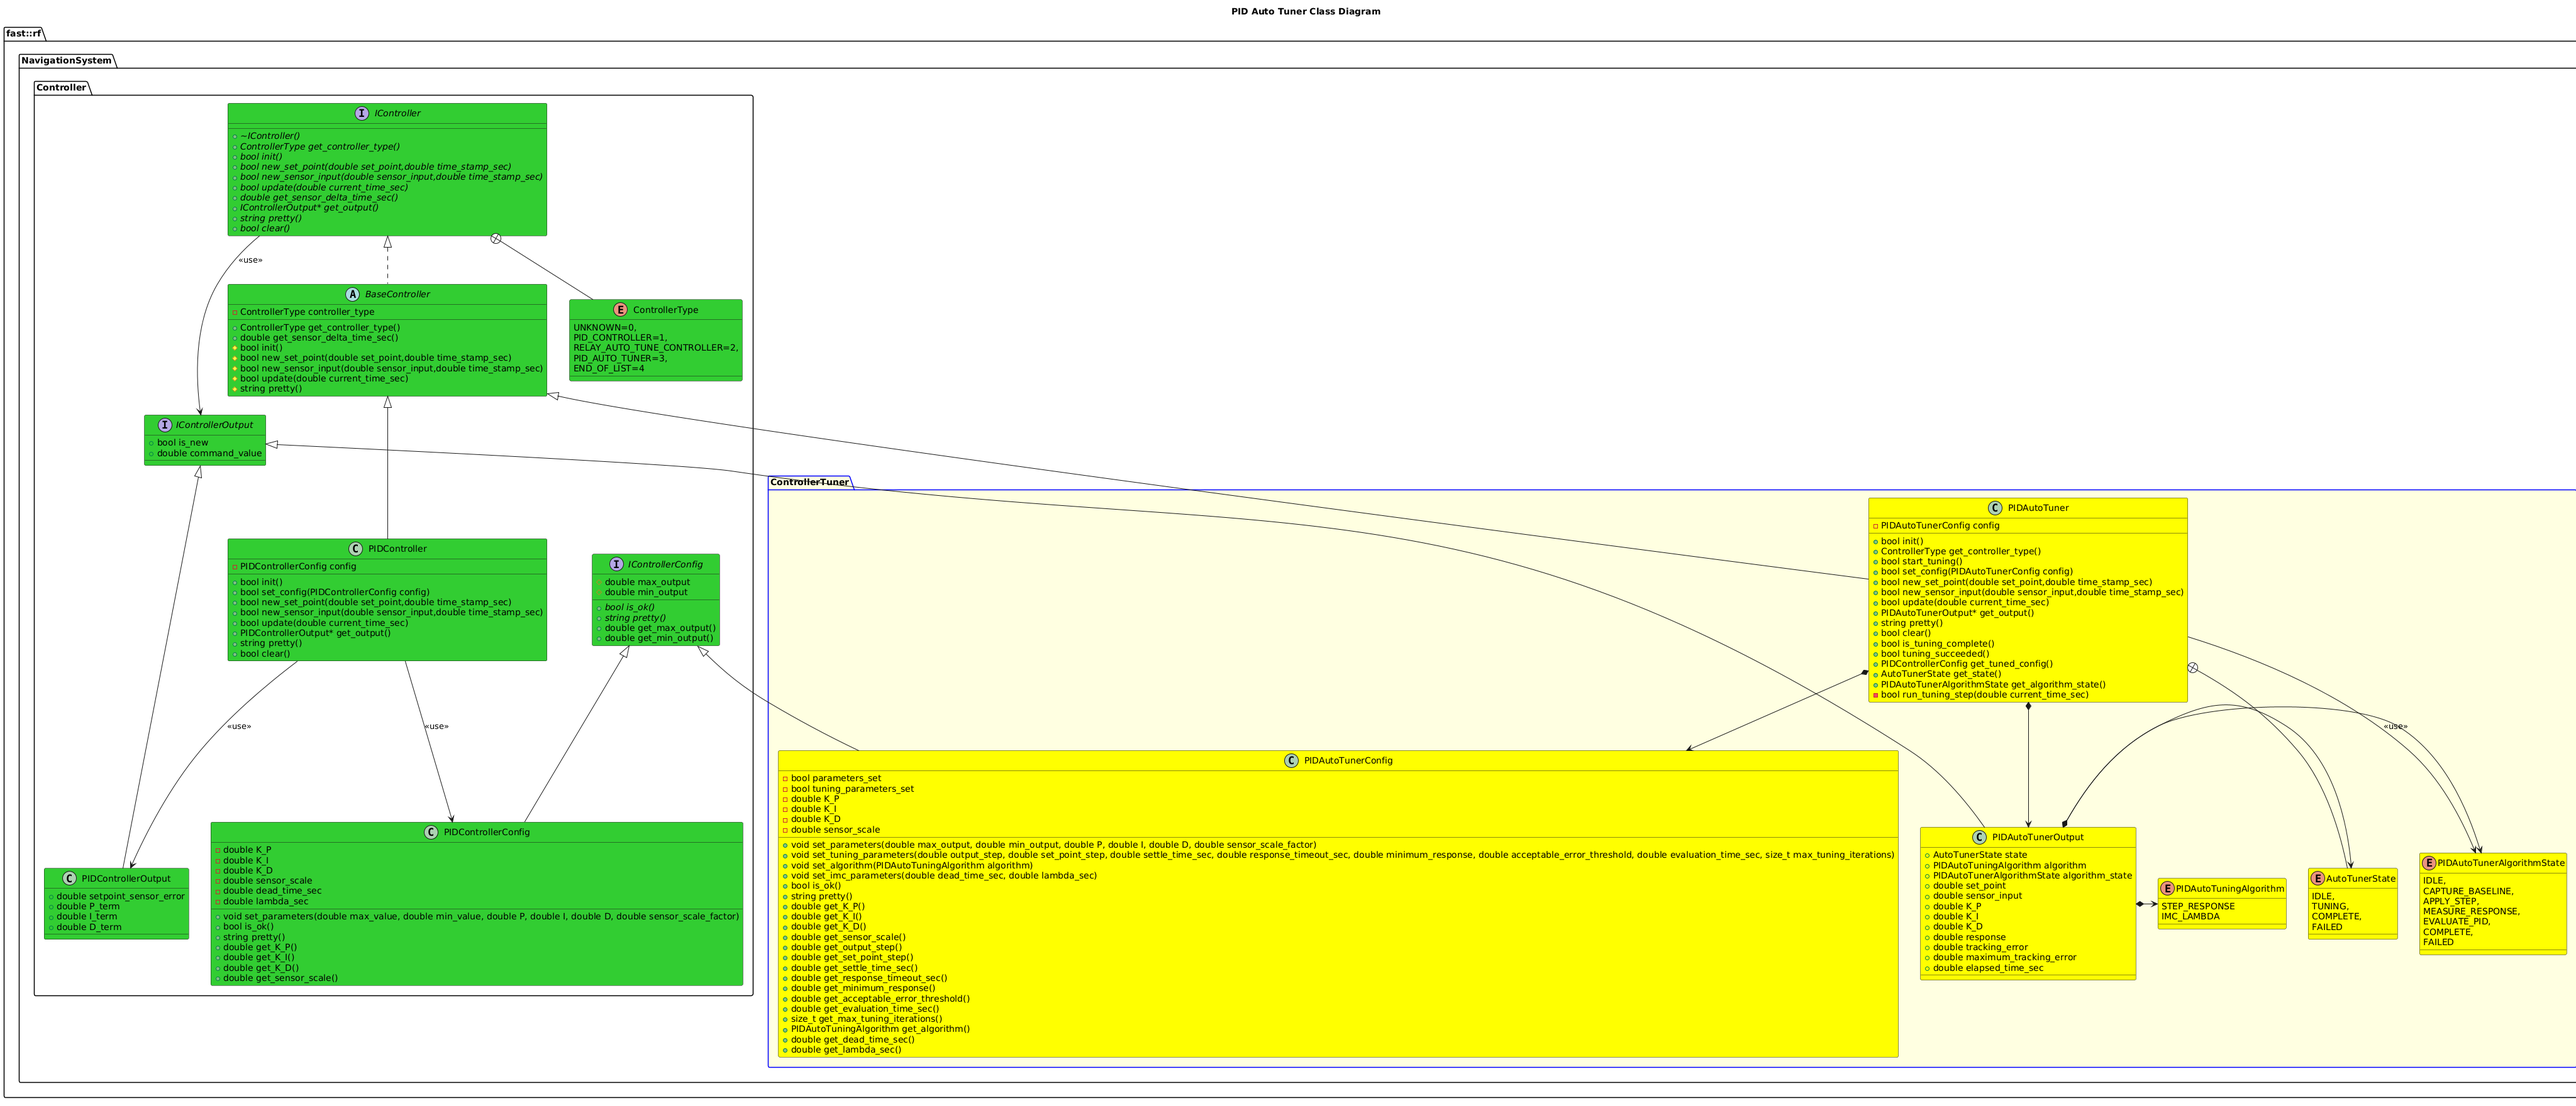
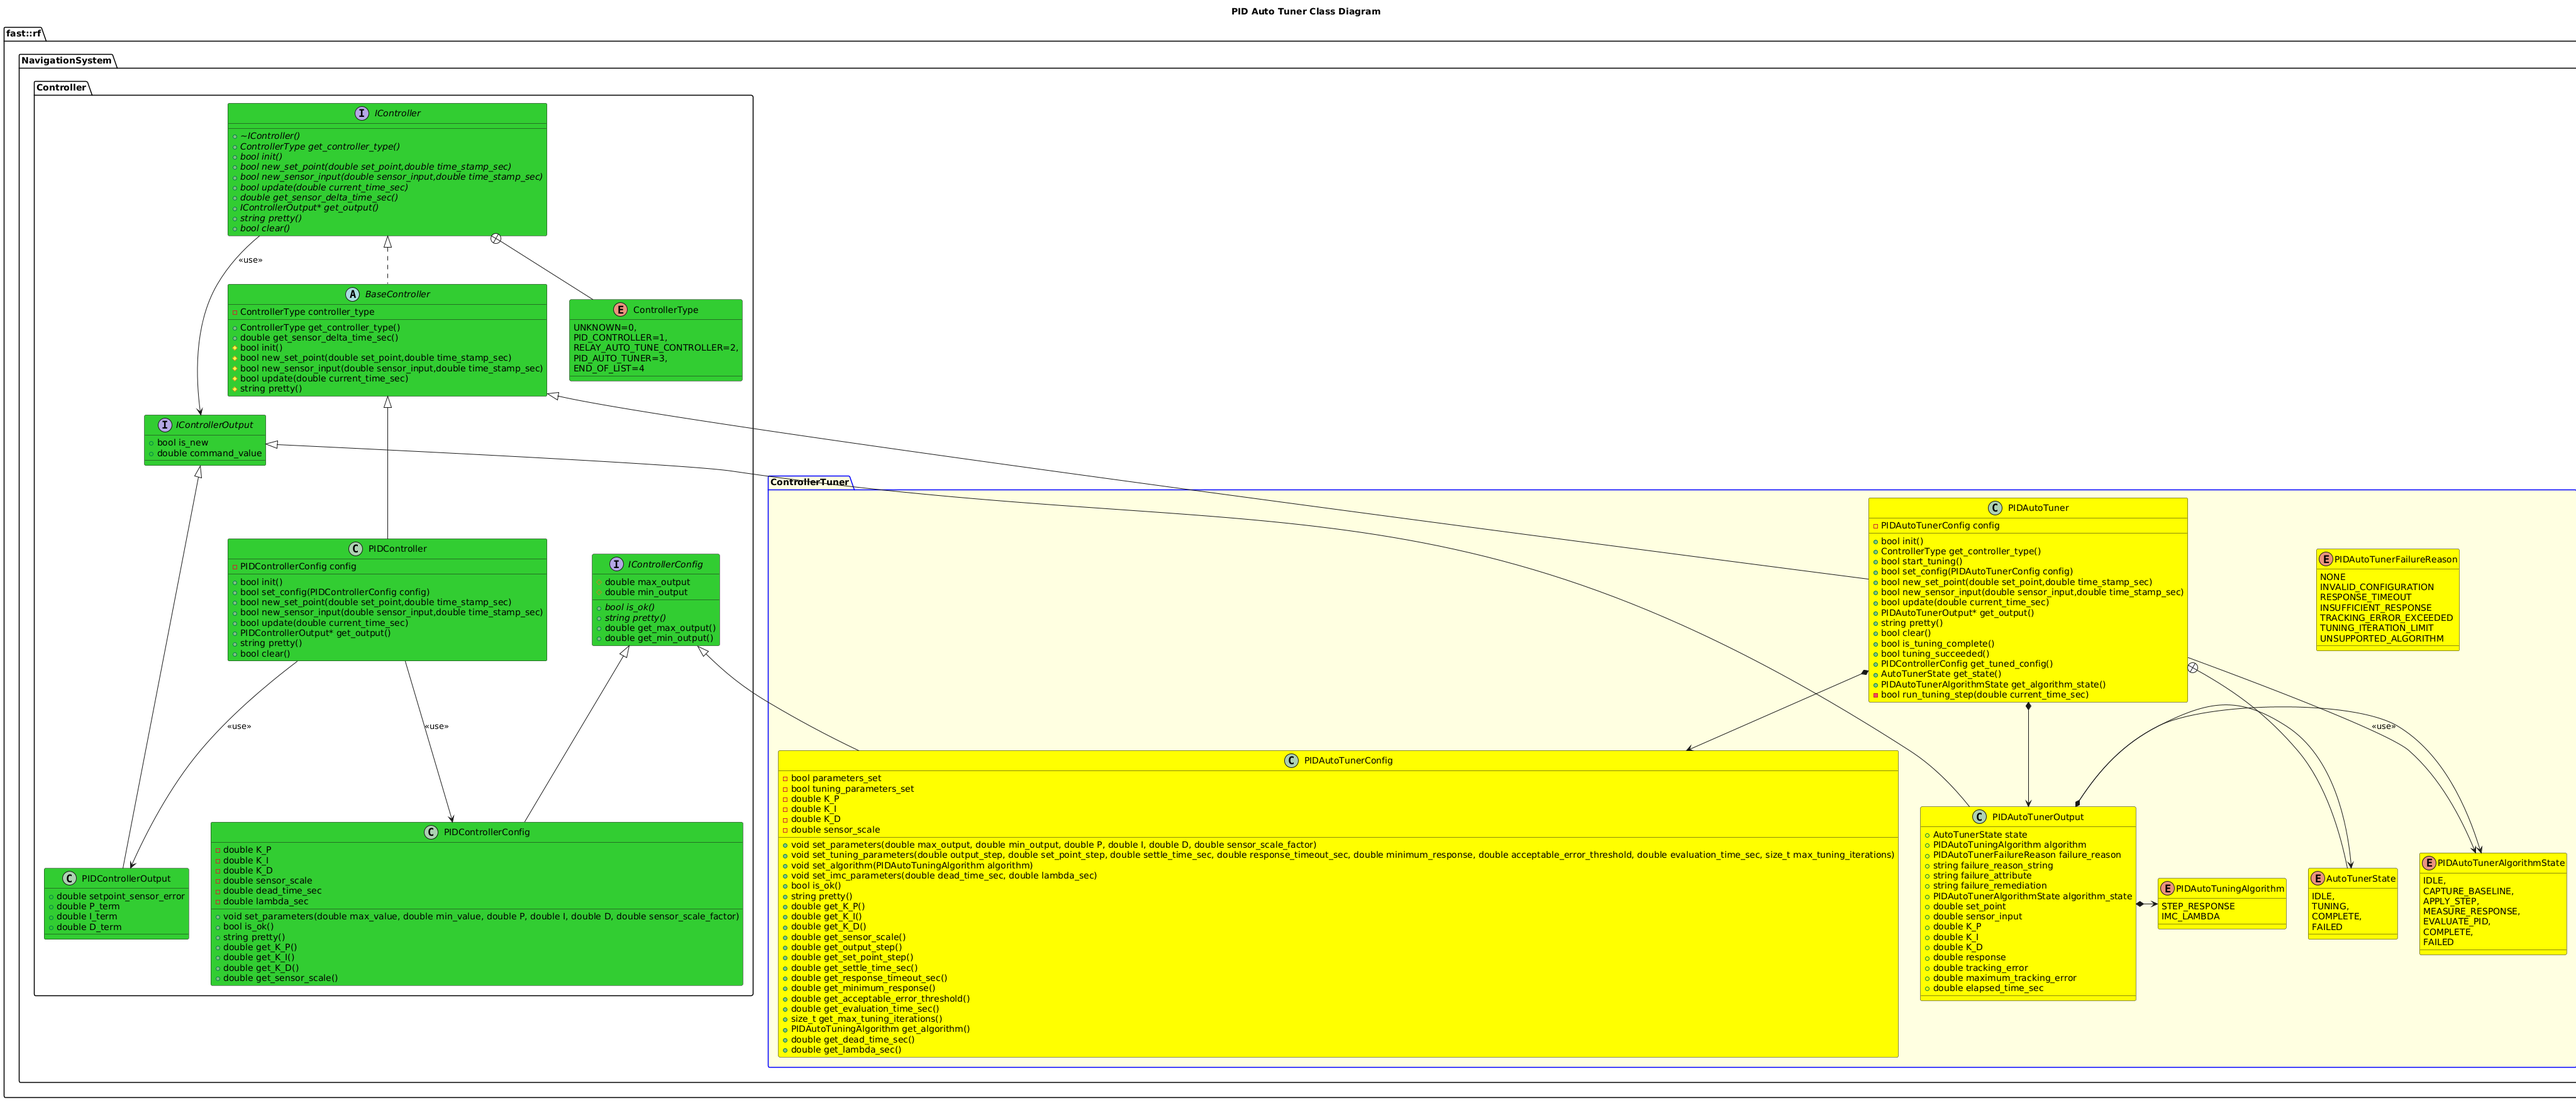
Updates

Changed region(s): [[0.75, 0.7188, 0.8438, 0.9062], [0.875, 0.4688, 0.9688, 0.5938]]

diff --git a/Systems/Navigation/src/Controller/ControllerTuner/PIDAutoTuner/PIDAutoTuner.cpp b/Systems/Navigation/src/Controller/ControllerTuner/PIDAutoTuner/PIDAutoTuner.cpp
@@ -2,6 +2,28 @@
 #include <cmath>
 
 namespace fast::rf::NavigationSystem::ControllerTuner {
+    namespace {
+        std::string failure_reason_to_string(PIDAutoTunerFailureReason reason) {
+            switch (reason) {
+                case PIDAutoTunerFailureReason::INVALID_CONFIGURATION:
+                    return "INVALID_CONFIGURATION";
+                case PIDAutoTunerFailureReason::RESPONSE_TIMEOUT:
+                    return "RESPONSE_TIMEOUT";
+                case PIDAutoTunerFailureReason::INSUFFICIENT_RESPONSE:
+                    return "INSUFFICIENT_RESPONSE";
+                case PIDAutoTunerFailureReason::TRACKING_ERROR_EXCEEDED:
+                    return "TRACKING_ERROR_EXCEEDED";
+                case PIDAutoTunerFailureReason::TUNING_ITERATION_LIMIT:
+                    return "TUNING_ITERATION_LIMIT";
+                case PIDAutoTunerFailureReason::UNSUPPORTED_ALGORITHM:
+                    return "UNSUPPORTED_ALGORITHM";
+                case PIDAutoTunerFailureReason::NONE:
+                default:
+                    return "NONE";
+            }
+        }
+    }  // namespace
+
     bool PIDAutoTunerConfig::is_ok() {
         if (!parameters_set_ || !tuning_parameters_set_ || max_output_ <= min_output_ || output_step_ == 0.0 ||
             set_point_step_ == 0.0 || settle_time_sec_ <= 0.0 || response_timeout_sec_ < settle_time_sec_ ||
@@ -92,7 +114,9 @@ namespace fast::rf::NavigationSystem::ControllerTuner {
                " Algorithm State: " + std::to_string(static_cast<int>(algorithm_state_)) +
                " Set Point: " + std::to_string(output_->set_point) +
                " Sensor: " + std::to_string(output_->sensor_input) + " K_P: " + std::to_string(output_->K_P) +
-               " K_I: " + std::to_string(output_->K_I) + " K_D: " + std::to_string(output_->K_D) + "\n";
+               " K_I: " + std::to_string(output_->K_I) + " K_D: " + std::to_string(output_->K_D) +
+               "\nFailure Reason: " + output_->failure_reason_string + " Attribute: " + output_->failure_attribute +
+               " Remediation: " + output_->failure_remediation + "\n";
     }
 
     bool PIDAutoTuner::clear() {
@@ -110,6 +134,10 @@ namespace fast::rf::NavigationSystem::ControllerTuner {
         evaluation_started_ = false;
         if (output_ != nullptr) {
             output_->state = state_;
+            output_->failure_reason = PIDAutoTunerFailureReason::NONE;
+            output_->failure_reason_string = "NONE";
+            output_->failure_attribute.clear();
+            output_->failure_remediation.clear();
             output_->algorithm_state = algorithm_state_;
             output_->is_new = false;
             output_->command_value = 0.0;
@@ -128,7 +156,8 @@ namespace fast::rf::NavigationSystem::ControllerTuner {
 
     bool PIDAutoTuner::start_tuning() {
         if (output_ == nullptr || !config_.is_ok()) {
-            fail_tuning();
+            fail_tuning(PIDAutoTunerFailureReason::INVALID_CONFIGURATION, "PIDAutoTunerConfig",
+                        "Set both parameter groups with valid limits and tuning values before start_tuning().");
             return false;
         }
         state_ = AutoTunerState::TUNING;
@@ -143,6 +172,10 @@ namespace fast::rf::NavigationSystem::ControllerTuner {
         have_sensor_input_ = false;
         evaluation_started_ = false;
         output_->state = state_;
+        output_->failure_reason = PIDAutoTunerFailureReason::NONE;
+        output_->failure_reason_string = "NONE";
+        output_->failure_attribute.clear();
+        output_->failure_remediation.clear();
         output_->algorithm = config_.get_algorithm();
         output_->algorithm_state = algorithm_state_;
         output_->is_new = true;
@@ -156,7 +189,8 @@ namespace fast::rf::NavigationSystem::ControllerTuner {
             case PIDAutoTuningAlgorithm::IMC_LAMBDA:
                 return run_step_response_tuning_step(current_time_sec);
             default:
-                fail_tuning();
+                fail_tuning(PIDAutoTunerFailureReason::UNSUPPORTED_ALGORITHM, "algorithm",
+                            "Select an implemented PIDAutoTuningAlgorithm before starting the tuner.");
                 return false;
         }
     }
@@ -217,7 +251,9 @@ namespace fast::rf::NavigationSystem::ControllerTuner {
                 } else {
                     ++tuning_iteration_;
                     if (tuning_iteration_ >= config_.get_max_tuning_iterations()) {
-                        fail_tuning();
+                        fail_tuning(
+                            PIDAutoTunerFailureReason::TUNING_ITERATION_LIMIT, "maximum_tracking_error",
+                            "Increase max_tuning_iterations or revise the output step and PID search strategy.");
                         return false;
                     }
                     output_->K_P *= 1.5;
@@ -273,17 +309,24 @@ namespace fast::rf::NavigationSystem::ControllerTuner {
             }
         }
         if (elapsed_time >= config_.get_response_timeout_sec()) {
-            fail_tuning();
+            fail_tuning(
+                PIDAutoTunerFailureReason::RESPONSE_TIMEOUT, "elapsed_time_sec",
+                "Verify sensor timestamps and actuator feedback, then increase response_timeout_sec if needed.");
             return false;
         }
         return true;
     }
 
-    void PIDAutoTuner::fail_tuning() {
+    void PIDAutoTuner::fail_tuning(PIDAutoTunerFailureReason reason, const std::string& attribute,
+                                   const std::string& remediation) {
         state_ = AutoTunerState::FAILED;
         algorithm_state_ = PIDAutoTunerAlgorithmState::FAILED;
         if (output_ != nullptr) {
             output_->state = state_;
+            output_->failure_reason = reason;
+            output_->failure_reason_string = failure_reason_to_string(reason);
+            output_->failure_attribute = attribute;
+            output_->failure_remediation = remediation;
             output_->algorithm_state = algorithm_state_;
             output_->command_value = 0.0;
             output_->is_new = true;

diff --git a/Systems/Navigation/src/Controller/ControllerTuner/PIDAutoTuner/test/test_PIDAutoTuner.cpp b/Systems/Navigation/src/Controller/ControllerTuner/PIDAutoTuner/test/test_PIDAutoTuner.cpp
@@ -56,6 +56,18 @@ TEST(PIDAutoTuner, RequiresBothParameterGroups) {
     ASSERT_EQ(tuner.get_state(), AutoTunerState::FAILED);
 }
 
+TEST(PIDAutoTuner, ReportsInvalidConfigurationFailureDetails) {
+    PIDAutoTuner tuner;
+    ASSERT_TRUE(tuner.init());
+    ASSERT_FALSE(tuner.start_tuning());
+
+    PIDAutoTunerOutput* output = tuner.get_output();
+    ASSERT_EQ(output->failure_reason, PIDAutoTunerFailureReason::INVALID_CONFIGURATION);
+    ASSERT_EQ(output->failure_reason_string, "INVALID_CONFIGURATION");
+    ASSERT_EQ(output->failure_attribute, "PIDAutoTunerConfig");
+    ASSERT_FALSE(output->failure_remediation.empty());
+}
+
 TEST(PIDAutoTuner, SelectsSupportedStepResponseAlgorithm) {
     PIDAutoTunerConfig config;
     config.set_parameters(10.0, -10.0, 0.0, 0.0, 0.0, 1.0);
@@ -103,6 +115,11 @@ TEST(PIDAutoTuner, FailsWhenResponseTimesOut) {
     ASSERT_FALSE(tuner.update(2.0));
     ASSERT_EQ(tuner.get_state(), AutoTunerState::FAILED);
     ASSERT_EQ(tuner.get_algorithm_state(), PIDAutoTunerAlgorithmState::FAILED);
+    PIDAutoTunerOutput* output = tuner.get_output();
+    ASSERT_EQ(output->failure_reason, PIDAutoTunerFailureReason::RESPONSE_TIMEOUT);
+    ASSERT_EQ(output->failure_reason_string, "RESPONSE_TIMEOUT");
+    ASSERT_EQ(output->failure_attribute, "elapsed_time_sec");
+    ASSERT_FALSE(output->failure_remediation.empty());
 }
 
 TEST(PIDAutoTuner, IteratesGainsWhenTrackingErrorIsTooLarge) {
@@ -137,4 +154,8 @@ TEST(PIDAutoTuner, IteratesGainsWhenTrackingErrorIsTooLarge) {
     ASSERT_TRUE(tuner.new_sensor_input(10.0, 5.0));
     ASSERT_FALSE(tuner.update(5.0));
     ASSERT_EQ(tuner.get_state(), AutoTunerState::FAILED);
+    output = tuner.get_output();
+    ASSERT_EQ(output->failure_reason, PIDAutoTunerFailureReason::TUNING_ITERATION_LIMIT);
+    ASSERT_EQ(output->failure_attribute, "maximum_tracking_error");
+    ASSERT_FALSE(output->failure_remediation.empty());
 }

diff --git a/Systems/Navigation/include/ControllerTuner/PIDAutoTuner/PIDAutoTuner.hpp b/Systems/Navigation/include/ControllerTuner/PIDAutoTuner/PIDAutoTuner.hpp
@@ -6,6 +6,15 @@
 
 namespace fast::rf::NavigationSystem::ControllerTuner {
     enum class AutoTunerState { IDLE, TUNING, COMPLETE, FAILED };
+    enum class PIDAutoTunerFailureReason {
+        NONE,
+        INVALID_CONFIGURATION,
+        RESPONSE_TIMEOUT,
+        INSUFFICIENT_RESPONSE,
+        TRACKING_ERROR_EXCEEDED,
+        TUNING_ITERATION_LIMIT,
+        UNSUPPORTED_ALGORITHM
+    };
     enum class PIDAutoTuningAlgorithm {
         STEP_RESPONSE,
         IMC_LAMBDA,
@@ -102,6 +111,10 @@ namespace fast::rf::NavigationSystem::ControllerTuner {
        public:
         ~PIDAutoTunerOutput() override {}
         AutoTunerState state{AutoTunerState::IDLE};
+        PIDAutoTunerFailureReason failure_reason{PIDAutoTunerFailureReason::NONE};
+        std::string failure_reason_string;
+        std::string failure_attribute;
+        std::string failure_remediation;
         PIDAutoTuningAlgorithm algorithm{PIDAutoTuningAlgorithm::STEP_RESPONSE};
         PIDAutoTunerAlgorithmState algorithm_state{PIDAutoTunerAlgorithmState::IDLE};
         double set_point{0.0};
@@ -137,7 +150,8 @@ namespace fast::rf::NavigationSystem::ControllerTuner {
        private:
         bool run_tuning_step(double current_time_sec);
         bool run_step_response_tuning_step(double current_time_sec);
-        void fail_tuning();
+        void fail_tuning(PIDAutoTunerFailureReason reason, const std::string& attribute,
+                         const std::string& remediation);
         void synchronize_output();
 
         PIDAutoTunerConfig config_;

diff --git a/Systems/Navigation/doc/PIDAutoTuner.md b/Systems/Navigation/doc/PIDAutoTuner.md
@@ -44,7 +44,7 @@ system before reporting successful tuning.
 
 The current implementation supports bounded step-response and IMC/Lambda
 tuning, selected by `PIDAutoTuningAlgorithm`. The selector is part of the
-public configuration API, but unsupported algorithms are rejected until their
+public configuration API. Unsupported algorithms are rejected until their
 implementations are added. IMC/Lambda additionally requires process dead time
 and the desired closed-loop time constant:
 
@@ -144,7 +144,7 @@ The Auto-Tuner should be capable of easy inspection of the state of the module.
 sensor value, and calculated gains.
 
 ## Requirement: Support multiple Tuning Algorithms
-*Met?* Not implemented yet.
+*Met?* Partially met.
 
 *Description*
 
@@ -152,8 +152,9 @@ The Auto-Tuner should be capable of potentially multiple different tuning algori
 
 *Evidence*
 
-The first implementation has one step-response algorithm. The configuration
-and algorithm-state boundaries are intended to support additional algorithms.
+The implementation currently supports bounded step-response and IMC/Lambda
+algorithms. The configuration selector and dispatch boundary allow additional
+algorithms to be added later.
 
 ## Requirement: Tuning Algorithm State Machine
 *Met?* Met for the first implementation.
@@ -166,9 +167,10 @@ If a tuning algorithm has a series of steps it must go thru, it should follow a 
 
 `PIDAutoTunerAlgorithmState` tracks baseline capture, step application,
 response measurement, candidate PID evaluation, completion, and failure while
-the main state is `TUNING`. When evaluation error exceeds the configured
-threshold, the tuner adjusts the candidate gains and retries until the
-iteration limit is reached.
+the main state is `TUNING`. Both supported algorithms use this same lifecycle;
+IMC/Lambda changes the gain calculation after the response is measured. When
+evaluation error exceeds the configured threshold, the tuner adjusts the
+candidate gains and retries until the iteration limit is reached.
 
 # Architecture
 ![](../../../Legend.png)
@@ -298,3 +300,19 @@ window. It reaches `COMPLETE` only when that value is less than or equal to
 `acceptable_error_threshold`. If the error is larger, the tuner adjusts the
 candidate gains and retries while the main state remains `TUNING`; after
 `max_tuning_iterations` unsuccessful evaluations it reaches `FAILED`.
+
+### Failure Diagnostics
+
+When tuning fails, `PIDAutoTunerOutput` contains a structured explanation:
+
+| Field                   | Description                                                            |
+| ----------------------- | ---------------------------------------------------------------------- |
+| `failure_reason`        | Machine-readable `PIDAutoTunerFailureReason` enum value.               |
+| `failure_reason_string` | Printable name of the enum value.                                      |
+| `failure_attribute`     | The measured value or configuration attribute that caused the failure. |
+| `failure_remediation`   | Suggested corrective action for the application or operator.           |
+
+The current failure reasons are `INVALID_CONFIGURATION`, `RESPONSE_TIMEOUT`,
+`INSUFFICIENT_RESPONSE`, `TRACKING_ERROR_EXCEEDED`,
+`TUNING_ITERATION_LIMIT`, and `UNSUPPORTED_ALGORITHM`. A successful or reset
+controller reports `NONE` and clears the related diagnostic strings.
